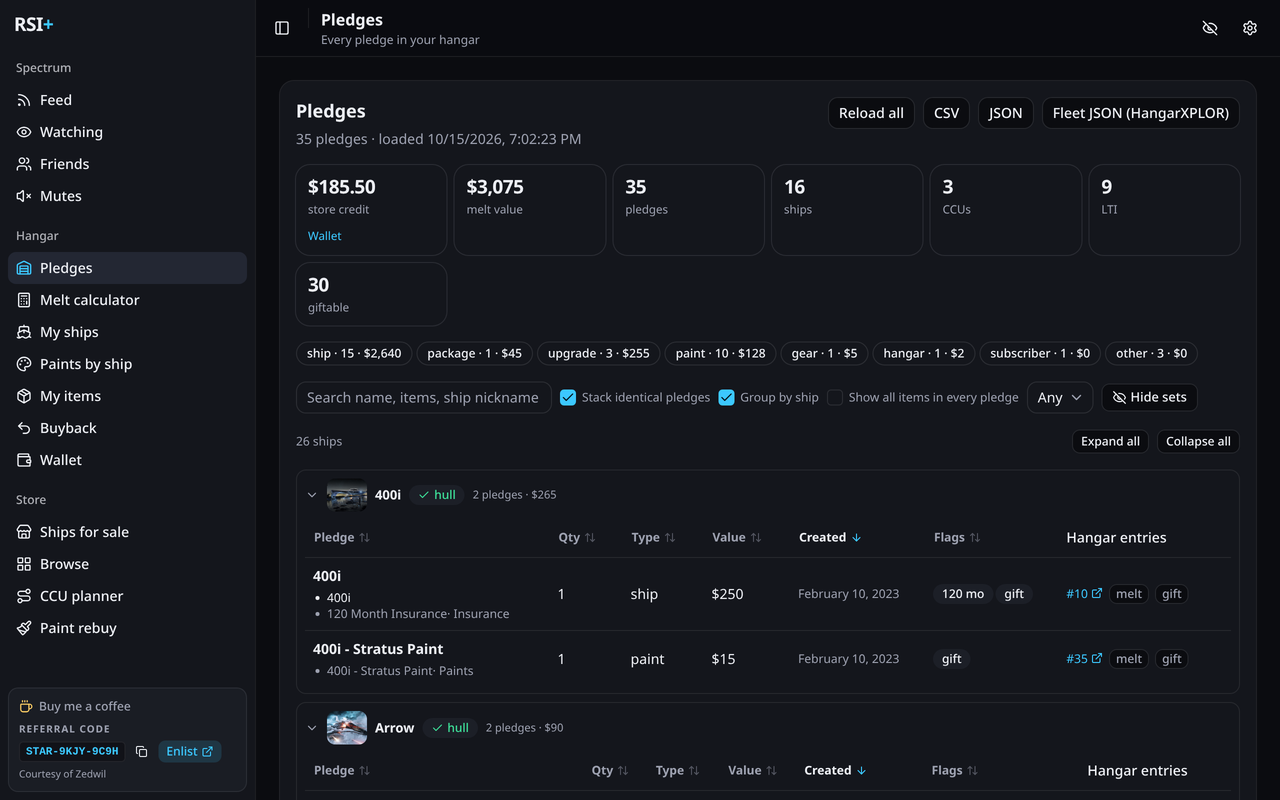
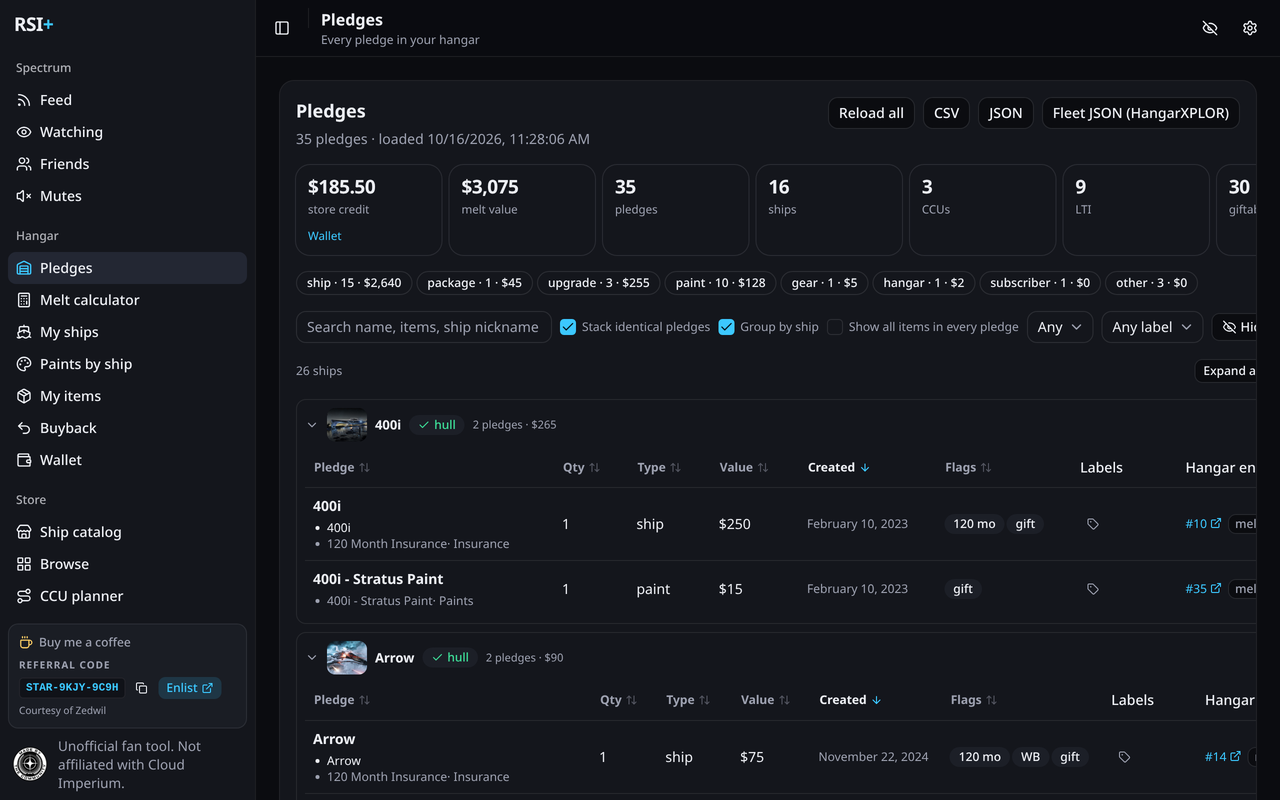
fix(ui): pledge labels in their own column

diff --git a/src/components/HangarPanel.svelte b/src/components/HangarPanel.svelte
@@ -600,6 +600,7 @@
                 <SortTh key="value" bind:sort firstDir="desc">Value</SortTh>
                 <SortTh key="date" bind:sort firstDir="desc">Created</SortTh>
                 <SortTh key="flags" bind:sort firstDir="desc">Flags</SortTh>
+                <Table.Head title="Your own labels — Keep, LTI token, CCU fodder and Melt steer the planners">Labels</Table.Head>
                 {#if melting}
                   <Table.Head>
                     <Tooltip.Root>
@@ -633,7 +634,6 @@
                   {/if}
                   <Table.Cell class="min-w-[200px] whitespace-normal">
                     <strong>{p.name}</strong>
-                    <LabelEdit ids={s.entries.map((e) => e.id)} {labels} onchange={saveLabels} />
                     {#if p.upgrade}<div class="text-muted-foreground text-xs">{p.upgrade.fromName} → {p.upgrade.toName}</div>{/if}
                     {#if p.upgraded}
                       {@const up = upgradedFrom(p, cat?.ships ?? [])}
@@ -676,6 +676,7 @@
                       {#if p.reservedNames?.length}<Badge variant="secondary" title="Ship name reserved on RSI">name: {p.reservedNames.join(', ')}</Badge>{:else if p.nameable?.length}<Badge variant="outline" class="text-muted-foreground" title="RSI lets you name this ship">nameable</Badge>{/if}
                     </div>
                   </Table.Cell>
+                  <Table.Cell class="min-w-[90px] whitespace-normal"><LabelEdit ids={s.entries.map((e) => e.id)} {labels} onchange={saveLabels} /></Table.Cell>
                   {#if melting}
                     <Table.Cell class="text-xs whitespace-normal">
                       {#if !nMelt}<span class="text-muted-foreground">—</span>

diff --git a/src/components/LabelEdit.svelte b/src/components/LabelEdit.svelte
@@ -38,7 +38,7 @@
   const TONE: Record<string, string> = { keep: 'border-success/40 text-success', 'lti token': 'border-warning/40 text-warning', 'ccu fodder': 'border-primary/40 text-primary', melt: 'border-destructive/40 text-destructive' };
 </script>
 
-<div class="mt-1 flex flex-wrap items-center gap-1">
+<div class="flex flex-wrap items-center gap-1">
   {#each here as h (h.name)}
     <Badge variant="outline" class={`gap-0.5 pr-0.5 ${TONE[norm(h.name)] ?? ''}`}>
       {h.name}{#if ids.length > 1 && h.n < ids.length}<span class="opacity-70"> {h.n}/{ids.length}</span>{/if}
@@ -48,7 +48,7 @@
   <Popover.Root bind:open>
     <Popover.Trigger>
       {#snippet child({ props })}
-        <Button {...props} variant="ghost" size="xs" class="text-muted-foreground h-5 px-1.5" title={ids.length > 1 ? `Label all ${ids.length} copies (unstack to label one)` : 'Add your own label'}><Tag class="size-3" />{here.length ? '' : ' label'}</Button>
+        <Button {...props} variant="ghost" size="xs" class="text-muted-foreground h-5 px-1.5" aria-label="Edit labels" title={ids.length > 1 ? `Label all ${ids.length} copies (unstack to label one)` : 'Add your own label'}><Tag class="size-3" /></Button>
       {/snippet}
     </Popover.Trigger>
     <Popover.Content align="start" class="w-72 gap-1.5 p-2">

diff --git a/docs/changelog.md b/docs/changelog.md
@@ -6,7 +6,7 @@ updated: 2026-10-13
 # Changelog
 
 ## Unreleased
-- **Your own labels on pledges.** On *Pledges*, every row has a 🏷 button: tick a preset or type your own label. Stacked rows label every copy; unstack to label just one. Filter the list by label, and *My ships* shows each hull's labels. Presets that drive the planners:
+- **Your own labels on pledges.** On *Pledges*, a *Labels* column with a 🏷 button on every row: tick a preset or type your own label. Stacked rows label every copy; unstack to label just one. Filter the list by label, and *My ships* shows each hull's labels. Presets that drive the planners:
   - **Keep:** the melt calculator's *Pick duplicates* / target planner never pick it, and a fleet plan never auto-upgrades its hull copy.
   - **LTI token / CCU fodder:** a fleet plan's *Auto* upgrades these hulls first (shown as *+ from labels* next to *Prefer to upgrade*).
   - **Melt:** *Pick labelled "Melt"* in the melt calculator picks them all in one click.

diff --git a/docs/architecture.md b/docs/architecture.md
@@ -224,7 +224,7 @@ Every store thumbnail in the hub (paints by ship, My ships, compare, Store, Pain
   - `LTI token` / `CCU fodder` → their hulls join the fleet plan's `prefer` (`labelPrefer`).
   - `Melt` → *Pick labelled "Melt"* in the melt calculator.
 - UI:
-  - Pledges: `LabelEdit` under each name (a stack labels all its entries, chips show n/m) and a label filter Select.
+  - Pledges: `LabelEdit` in its own *Labels* column after Flags (a stack labels all its entries, chips show n/m) and a label filter Select.
   - My ships: read-only chips from the pledges holding the hull.
 
 ## Melt (`src/lib/melt.ts`)
